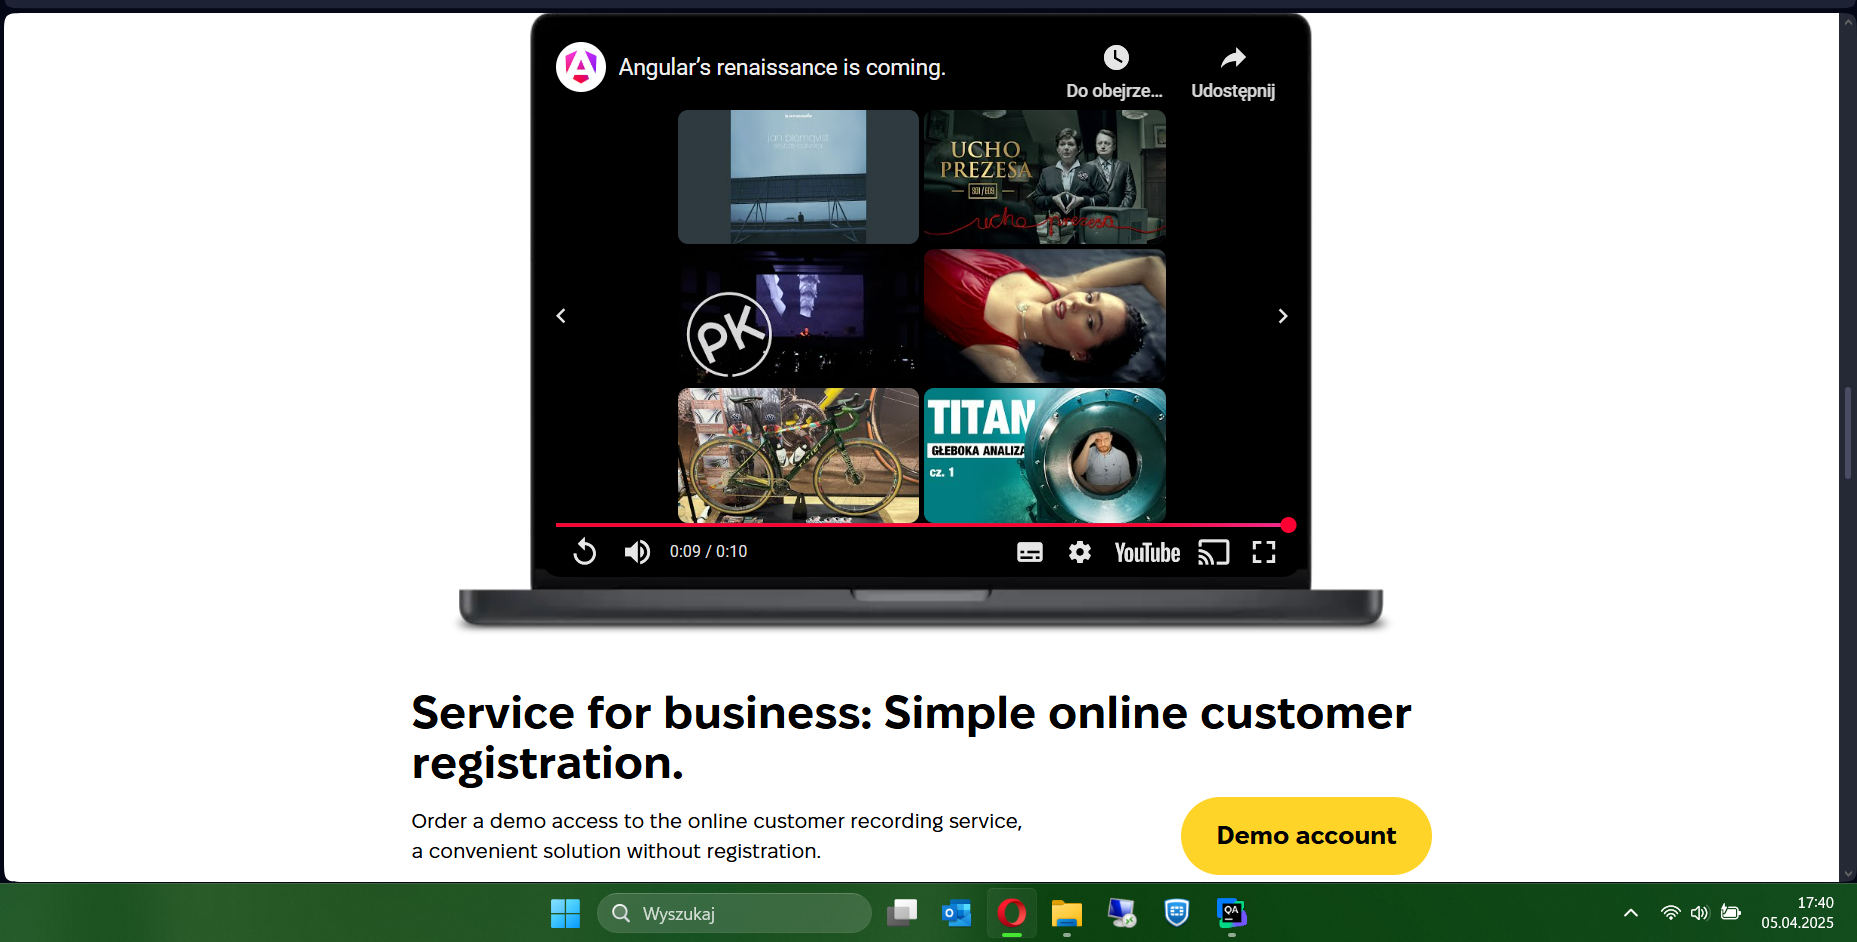
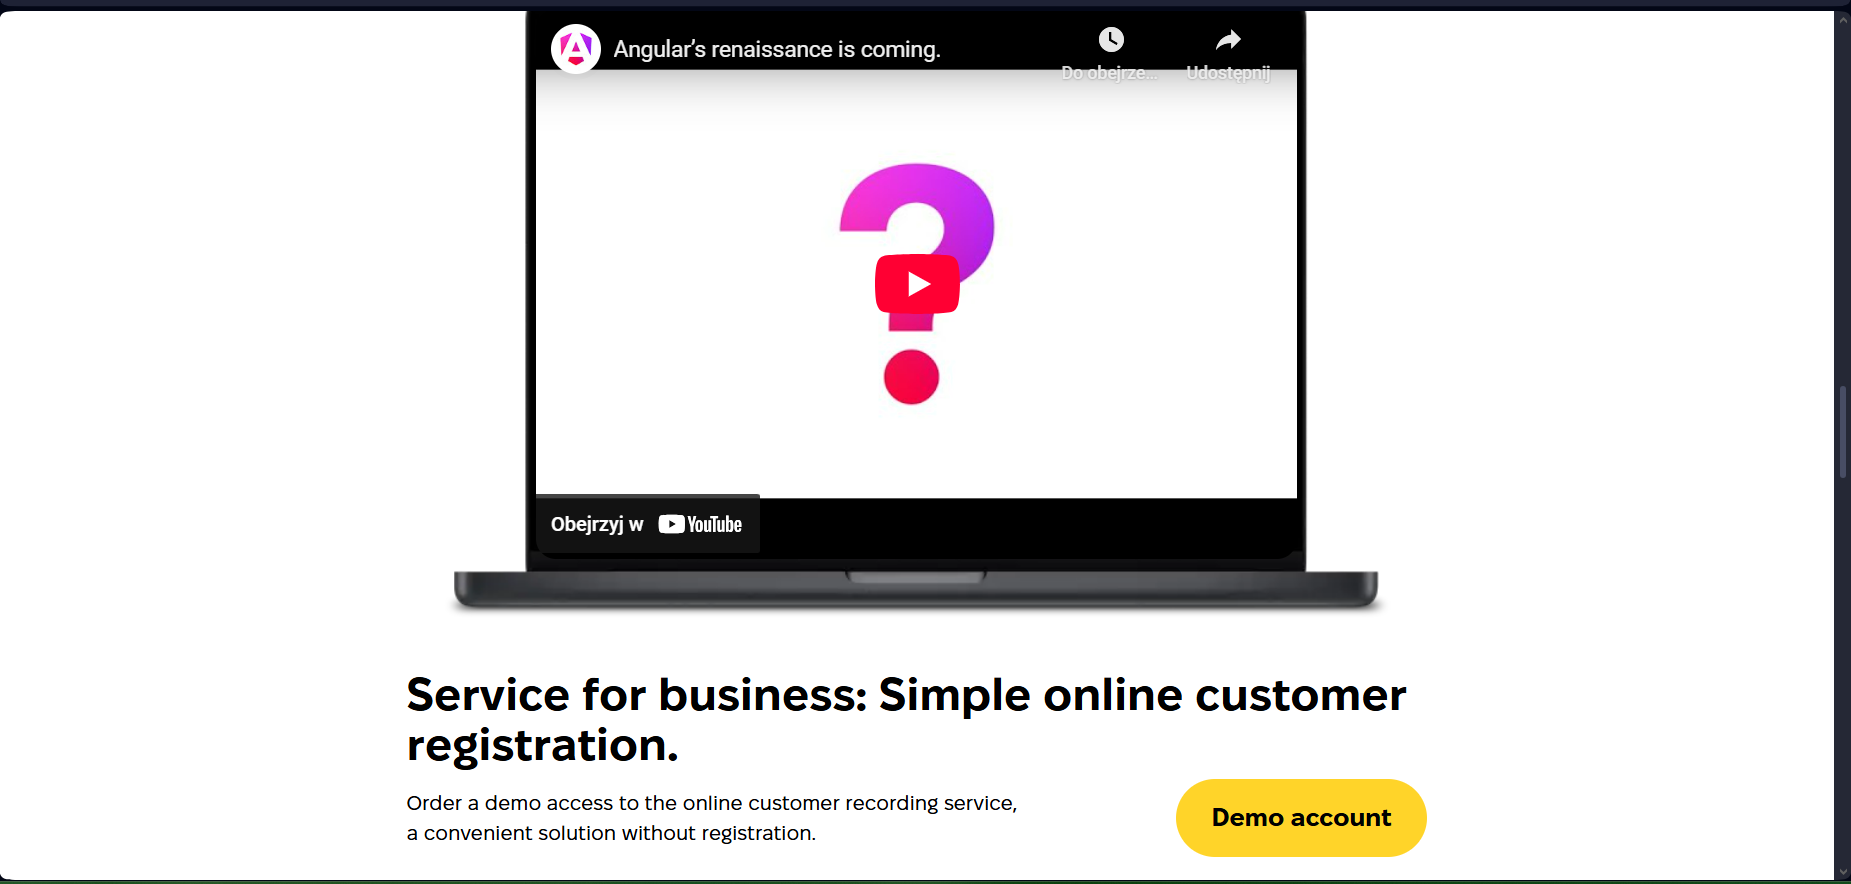
Landing page checklist.md file

diff --git a/.github/PULL_REQUEST_TEMPLATE/checklist.md b/.github/PULL_REQUEST_TEMPLATE/checklist.md
@@ -40,7 +40,7 @@ Please provide a short summary explaining what this PR does.
 
 ### **4. Services section**
 - [ ] check that the image is visible and correctly presented
-- ![img_4.png](img_4.png)
+- [img_4.png](img_4.png)
 
 ### **5. move section**
 - [ ] check that the image is visible and correctly presented
